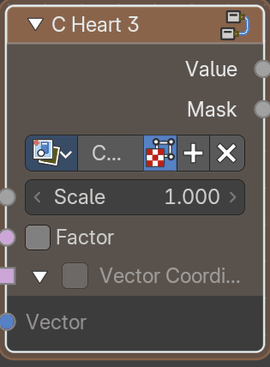
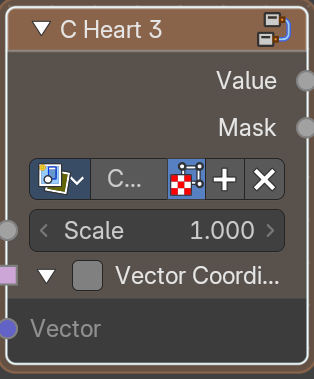
Compositor and Shader Library: sockets and names match the merged libraries (Bforartists#6966)
Compositor: Heart 3 has no Factor input, Halftone Pattern Vector Coordinates is a panel, Bokeh and Fast Defocus Manual Focus is nested, Lens Dirt Grunge Image, Temp Kelvin and Frame Start are plain floats. Shader: Distortion Blur Factor, Mirror Is Original, Radial Symmetry Number of Repetitions, Bean Value, Union (OR) and Tileable Voronoi 2D Smoothness.

Changed region(s): [[0.0, 0.0, 1.0, 0.9891], [0.0889, 0.8392, 0.3259, 0.8992]]

diff --git a/docs2/content/assets/shader-library.md b/docs2/content/assets/shader-library.md
@@ -510,7 +510,7 @@ Data type: Vector.
 
 Coordinates to use. Leave unconnected for automatic Object coordinates.
 
-#### Fac
+#### Factor
 
 Data type: Float (factor).
 
@@ -526,7 +526,7 @@ The resulting vector.
 
 ### How to use
 
-Connect a vector to Vector. The coordinates are shaken with random noise, Fac sets how much. Use the result as the vector of a texture for a grainy blur.
+Connect a vector to Vector. The coordinates are shaken with random noise, Factor sets how much. Use the result as the vector of a texture for a grainy blur.
 
 ## Equirectangular
 
@@ -702,7 +702,7 @@ Data type: Vector.
 
 The resulting vector.
 
-#### isOriginal
+#### Is Original
 
 Data type: Float.
 
@@ -710,7 +710,7 @@ White on the original side of the mirror, black on the mirrored side.
 
 ### How to use
 
-Connect a vector to Vector. The coordinates are mirrored across a line: Normal is the direction of the line, Offset moves it and Mirror Position sets what is mirrored. isOriginal is white on the side that was not mirrored.
+Connect a vector to Vector. The coordinates are mirrored across a line: Normal is the direction of the line, Offset moves it and Mirror Position sets what is mirrored. Is Original is white on the side that was not mirrored.
 
 ## Object-World Normal
 
@@ -810,7 +810,7 @@ Coordinates to convert.
 
 ### Outputs
 
-#### Cylindrical(Polar + Z)
+#### Cylindrical
 
 Data type: Vector.
 
@@ -842,7 +842,7 @@ Data type: Vector.
 
 Center point of the repeat. Default: (0.5, 0.5, 0).
 
-#### Number of repetitions
+#### Number of Repetitions
 
 Data type: Float.
 
@@ -864,7 +864,7 @@ The changed coordinates.
 
 ### How to use
 
-Connect a vector to Vector. Space is repeated around Center Axis like a kaleidoscope, Number of repetitions sets how often and Scale the size. UV is the result.
+Connect a vector to Vector. Space is repeated around Center Axis like a kaleidoscope, Number of Repetitions sets how often and Scale the size. UV is the result.
 
 ## Radial Symmetry 2
 
@@ -888,7 +888,7 @@ Data type: Vector.
 
 Center point of the repeat.
 
-#### Number of repetitions
+#### Number of Repetitions
 
 Data type: Float.
 
@@ -922,7 +922,7 @@ The resulting vector.
 
 ### How to use
 
-Connect a vector to Vector. Space is repeated around Center Axis, Number of repetitions sets how often, Phase and Rotate turn the copies and Scale sets the size. It is like Radial Symmetry 1 with more control.
+Connect a vector to Vector. Space is repeated around Center Axis, Number of Repetitions sets how often, Phase and Rotate turn the copies and Scale sets the size. It is like Radial Symmetry 1 with more control.
 
 ## Spherical
 
@@ -942,7 +942,7 @@ Coordinates to convert.
 
 ### Outputs
 
-#### Spherical(r, theta, phi)
+#### Spherical
 
 Data type: Vector.
 
@@ -2446,13 +2446,13 @@ Data type: Vector.
 
 Coordinates to use. Leave unconnected for automatic Object coordinates.
 
-#### Color1
+#### Color 1
 
 Data type: Color.
 
 First pattern color.
 
-#### Color2
+#### Color 2
 
 Data type: Color.
 
@@ -2504,7 +2504,7 @@ The UVs per checker vector output.
 
 ### How to use
 
-Connect a vector, for example the UV output of a Texture Coordinate node, to Vector. A checkerboard with any two colors. Color1 and Color2 set the colors, Modulo the number of steps and Dot a dot variant. Scale sets the size of the squares.
+Connect a vector, for example the UV output of a Texture Coordinate node, to Vector. A checkerboard with any two colors. Color 1 and Color 2 set the colors, Modulo the number of steps and Dot a dot variant. Scale sets the size of the squares.
 
 The asset with default values on a plane, with the UV coordinates of the plane mapped from -1.6 to 1.6 in X and -1 to 1 in Y:
 
@@ -3452,6 +3452,12 @@ Data type: Float.
 
 Rotates each cell point around its cell center. Animate it for a swirling effect. Default: 0.
 
+#### Smoothness
+
+Data type: Float (factor).
+
+How much Smooth F1 rounds off the edges between cells. 0 matches F1. Default: 0.5.
+
 #### Scale
 
 Data type: Float.
@@ -3492,7 +3498,7 @@ Position of the nearest cell point.
 
 ### How to use
 
-Connect a vector, for example the UV output of a Texture Coordinate node, to Vector. Set Scale to the number of cells. With Tileable on, the pattern repeats without visible seams, so it can be used as a texture tile. Randomness and Point Rotation shape the cells. F1 is the distance to the nearest point and Random Color gives each cell a color.
+Connect a vector, for example the UV output of a Texture Coordinate node, to Vector. Set Scale to the number of cells. With Tileable on, the pattern repeats without visible seams, so it can be used as a texture tile. Randomness and Point Rotation shape the cells, and Smoothness sets how soft Smooth F1 is. F1 is the distance to the nearest point and Random Color gives each cell a color.
 
 The asset with default values on a plane, with the UV coordinates of the plane mapped from -1.6 to 1.6 in X and -1 to 1 in Y:
 
@@ -3676,7 +3682,7 @@ The asset with default values on a plane, with the UV coordinates of the plane m
 
 ![Bean](/docs2/images/assets/shader-library/shapes/bean.png)
 
-Draws a vector shape with controls. Normalized Value is the smooth shape and Mask the sharp one.
+Draws a vector shape with controls. Value is the smooth shape and Mask the sharp one.
 
 ### Inputs
 
@@ -3694,7 +3700,7 @@ The scale of the shape. Default: 0.5.
 
 ### Outputs
 
-#### Normalized Value
+#### Value
 
 Data type: Float.
 
@@ -3708,7 +3714,7 @@ A black and white mask of the shape.
 
 ### How to use
 
-A vector shape. Connect a vector, for example the UV output of a Texture Coordinate node, to Vector. Size sets its size. Normalized Value is the smooth shape, Mask is the sharp version of it.
+A vector shape. Connect a vector, for example the UV output of a Texture Coordinate node, to Vector. Size sets its size. Value is the smooth shape, Mask is the sharp version of it.
 
 The asset with default values on a plane, with the UV coordinates of the plane mapped from -1.6 to 1.6 in X and -1 to 1 in Y:
 
@@ -4012,7 +4018,7 @@ Data type: Float.
 
 The offset of the shape. Default: 1.
 
-#### Number of wings
+#### Number of Wings
 
 Data type: Integer.
 
@@ -4040,7 +4046,7 @@ A black and white mask of the shape.
 
 ### How to use
 
-A vector shape. Connect a vector, for example the UV output of a Texture Coordinate node, to Vector. Scale sets its size. Offset moves it. Number of wings sets the wings. Form changes the shape of the curve. Value is the smooth shape, Mask is the sharp version of it.
+A vector shape. Connect a vector, for example the UV output of a Texture Coordinate node, to Vector. Scale sets its size. Offset moves it. Number of Wings sets the wings. Form changes the shape of the curve. Value is the smooth shape, Mask is the sharp version of it.
 
 The asset with default values on a plane, with the UV coordinates of the plane mapped from -1.6 to 1.6 in X and -1 to 1 in Y:
 
@@ -5554,13 +5560,13 @@ Second mask. Default: 0.
 
 ### Outputs
 
-#### Union(OR)
+#### Union (OR)
 
 Data type: Float.
 
 White where either mask is white.
 
-#### Intersection(AND)
+#### Intersection (AND)
 
 Data type: Float.
 
@@ -5580,7 +5586,7 @@ White where only one mask is white.
 
 ### How to use
 
-Connect two masks to Value A and Value B. The four outputs combine them like boolean operations: Union(OR) adds them, Intersection(AND) keeps what both share, Subtract removes B from A and Difference keeps what only one of them has.
+Connect two masks to Value A and Value B. The four outputs combine them like boolean operations: Union (OR) adds them, Intersection (AND) keeps what both share, Subtract removes B from A and Difference keeps what only one of them has.
 
 ## Image Edge Detection
 

diff --git a/docs2/content/assets/compositor-library.md b/docs2/content/assets/compositor-library.md
@@ -140,9 +140,9 @@ Controls the intensity of the color temperature adjustment.
 
 #### Temp Kelvin
 
-Data type: Float (factor).
+Data type: Float.
 
-Sets the color temperature in Kelvin.
+Sets the color temperature in Kelvin. Default: 6500.
 
 ### Outputs
 
@@ -423,15 +423,17 @@ Size of the roughness.
 
 #### Vector Coordinates
 
+##### Vector Coordinates
+
 Data type: Boolean.
 
-Use the Vector input instead of the automatic image coordinates.
+Use the Vector input instead of the automatic image coordinates. Default: Off.
 
-#### Vector
+##### Vector
 
 Data type: Vector.
 
-Used when Vector Coordinates is on. Best used with the Vector Mapping node group.
+Vector Coordinates input. Best used with the Vector Mapping node group.
 
 ### Outputs
 
@@ -760,7 +762,7 @@ Color of the second checker
 
 ##### Frame Start
 
-Data type: Float (factor).
+Data type: Float.
 
 The starting frame for the animation effect.
 
@@ -1623,33 +1625,33 @@ Data type: Boolean.
 
 Enables or disables defocus for far-field areas. Default: On.
 
-#### Manual Focus
-
 ##### Manual Focus
+
+####### Manual Focus
 
 Data type: Boolean.
 
 Set the focus distance by hand instead of using the camera. Default: Off.
 
-##### Focus Distance
+###### Focus Distance
 
 Data type: Float.
 
 Adjusts the center offset for the defocus mask. Default: 5.
 
-##### F-Stop
+###### F-Stop
 
 Data type: Float.
 
 Adjusts the fstop depth field for the defocus mask. Default: 2.8.
 
-##### Near Offset
+###### Near Offset
 
 Data type: Float.
 
 Sets the distance threshold for near-field defocus. Default: 0.
 
-##### Far Offset
+###### Far Offset
 
 Data type: Float.
 
@@ -1796,33 +1798,33 @@ Data type: Boolean.
 
 Enables or disables defocus for far-field areas. Default: On.
 
-#### Manual Focus
-
 ##### Manual Focus
+
+####### Manual Focus
 
 Data type: Boolean.
 
 Set the focus distance by hand instead of using the camera. Default: Off.
 
-##### Focus Distance
+###### Focus Distance
 
 Data type: Float (distance).
 
 Adjusts the center offset for the defocus mask. Default: 5.
 
-##### F-Stop
+###### F-Stop
 
 Data type: Float.
 
 Adjusts the fstop depth field for the defocus mask. Default: 2.8.
 
-##### Near Offset
+###### Near Offset
 
 Data type: Float.
 
 Sets the distance threshold for near-field defocus. Default: 0.
 
-##### Far Offset
+###### Far Offset
 
 Data type: Float.
 
@@ -2050,9 +2052,9 @@ Size of the smudges. Default: 0.5.
 
 Data type: Boolean.
 
-Use a. Default: Off.
+Use a custom image as the grunge texture instead of the procedural one. Default: Off.
 
-##### Image
+##### Grunge Image
 
 Data type: Color.
 
@@ -5428,12 +5430,6 @@ Data type: Float.
 
 The scale of the shape. Default: 2.
 
-#### Factor
-
-Data type: Boolean.
-
-Amount of mixing between the A and B inputs. Default: Off.
-
 #### Vector Coordinates
 
 ##### Vector Coordinates
@@ -5464,7 +5460,7 @@ A black and white mask of the shape.
 
 ### How to use
 
-A vector shape that covers the whole image by default. Scale sets its size. Factor changes the shape. Switch Vector Coordinates on to use your own Vector instead. Value is the smooth shape, Mask is the sharp version of it.
+A vector shape that covers the whole image by default. Scale sets its size. Switch Vector Coordinates on to use your own Vector instead. Value is the smooth shape, Mask is the sharp version of it.
 
 The pattern with default values:
 
